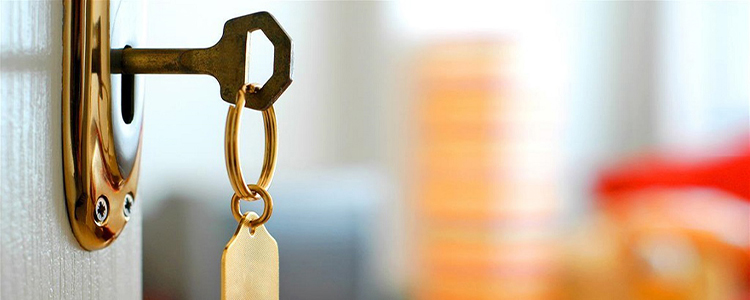
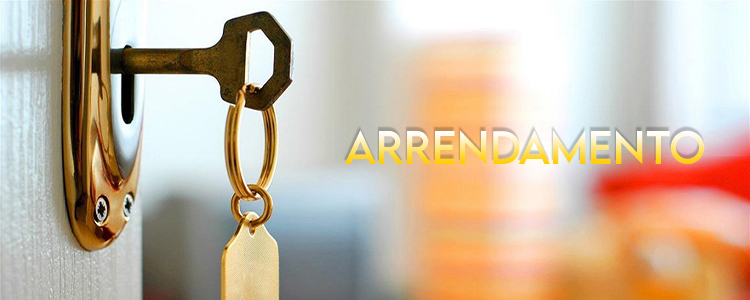
updated webswite

Changed region(s): [[0.46, 0.42, 0.9507, 0.57]]

diff --git a/Arrendamento.html b/Arrendamento.html
@@ -1,0 +1,246 @@
+<!DOCTYPE HTML>
+<html>
+	<head>
+		<title>Emprise Serviços</title>
+		<meta charset="utf-8" />
+		<meta name="viewport" content="width=device-width, initial-scale=1, user-scalable=no" />
+		<!--[if lte IE 8]><script src="assets/js/ie/html5shiv.js"></script><![endif]-->
+		<link rel="stylesheet" href="assets/css/main.css" />
+		<!--[if lte IE 9]><link rel="stylesheet" href="assets/css/ie9.css" /><![endif]-->
+		<!--[if lte IE 8]><link rel="stylesheet" href="assets/css/ie8.css" /><![endif]-->
+        <link rel="icon"  type="images/png" href="images/favicon.png" />
+        <link rel="stylesheet" href="https://cdnjs.cloudflare.com/ajax/libs/font-awesome/4.7.0/css/font-awesome.min.css">
+	</head>
+	<body>
+
+		<!-- Wrapper -->
+			<div id="wrapper">
+
+				<!-- Main -->
+					<div id="main">
+						<div class="inner">
+
+							<!-- Header -->
+								<header id="header">
+									<a href="index.html" class="logo"><strong>Emprise</strong> Serviços - <font size="1">Promotor de Serviços</font></small></a>
+									<ul class="icons">
+										<li><a href="https://www.facebook.com/EmpriseServicos/" class="icon fa-facebook"><span class="label">Facebook</span></a></li>
+									</ul>
+								</header>
+                            
+                            
+							<!-- Section -->
+								<section>
+									                           
+                               <i class="fa fa-home fa-2x" aria-hidden="true" style="color:#042c62"></i> <h1 style="color:#042c62"> Arrendamento Efectivo </h1> <h1 style="color:#424242">Properties to Rent</h1>
+                                <p>PT - Contacte-nos para saber mais informações ou para marcar uma visita a uma das propriedades apresentadas</strong><br>
+								 <strong>EN - Contact us to find out more information or to schedule a visit to one of the listed properties</strong></p>
+								</section>
+								<section>
+                                <!-- Section -->
+									<header class="major">
+									</header>
+									<div class="posts">
+									<article>
+											<a class="image" ><img src="images/t3prazeres/t3prazeres.jpg" alt="" /></a>
+											<h3>Apartamento T3, Prazeres, Calheta, Ilha da Madeira</h3>
+                                            <p>
+                                            </p>
+                                         <!--   <h4> 
+												DESC
+											</h4> -->
+											
+                                                <i class="fa fa-users" aria-hidden="true"></i> T3<br>
+												<i class="fa fa-eur" aria-hidden="true"></i> Renda: 310€/mês (mais despesas)<br>
+												<i class="fa fa-eur" aria-hidden="true"></i> Rent: 310€/mês (plus expenses)<br>
+												
+     					<br>
+											<ul class="actions">
+											
+                                                <li> <a href="http://www.cybermadeira.com/classificado-1002572467-apartamento-t3-para-arrendamento-prazeres-estacada.html">PT - MAIS FOTOS</a></li>
+												<li> <a href="http://www.cybermadeira.com/classificado-1002572467-apartamento-t3-para-arrendamento-prazeres-estacada.html">EN - MORE PHOTOS</a></li>
+											
+											</ul>
+										</article>
+										<article>
+											<a class="image"><img src="images/t2saloio/capa.jpg" alt="" /></a>
+											<h3>Apartamento T2, Prazeres, Calheta, Ilha da Madeira</h3>
+                                            <p>
+                                            </p>
+                                         <!--   <h4> 
+												DESC
+											</h4> -->
+											
+                                                <i class="fa fa-users" aria-hidden="true"></i> T2<br>
+												<i class="fa fa-eur" aria-hidden="true"></i> Renda: 400€/mês (INCLUI DESPESAS)<br>
+												<i class="fa fa-eur" aria-hidden="true"></i> Rent: 400€/mês (INCLUDES EXPENSES)<br>
+												
+     					<br>
+											<ul class="actions">
+											
+                                                <li> <a href="http://www.cybermadeira.com/classificado-1002568879-apartamento-t2-para-arrendamento-prazeres-lombo-da-rocha.html">PT - MAIS FOTOS</a></li>
+												<li> <a href="http://www.cybermadeira.com/classificado-1002568879-apartamento-t2-para-arrendamento-prazeres-lombo-da-rocha.html">EN - MORE PHOTOS</a></li>
+											
+											</ul>
+										</article>
+										<article>
+											<a class="image"><img src="images/t3saloio/capa.jpg" alt="" /></a>
+											<h3>Apartamento T3, Prazeres, Calheta, Ilha da Madeira</h3>
+                                            <p>
+                                            </p>
+                                         <!--   <h4> 
+												DESC
+											</h4> -->
+											
+                                                <i class="fa fa-users" aria-hidden="true"></i> T3<br>
+												<i class="fa fa-eur" aria-hidden="true"></i> Renda: 500€/mês (INCLUI DESPESAS)<br>
+												<i class="fa fa-eur" aria-hidden="true"></i> Rent: 500€/mês (INCLUDES EXPENSES)<br>
+												
+     					<br>
+											<ul class="actions">
+											
+                                                <li> <a href="http://www.cybermadeira.com/classificado-1002568880-apartamento-t3-para-arrendamento-prazeres-lombo-da-rocha.html">PT - MAIS FOTOS</a></li>
+												<li> <a href="http://www.cybermadeira.com/classificado-1002568880-apartamento-t3-para-arrendamento-prazeres-lombo-da-rocha.html">EN - MORE PHOTOS</a></li>
+											
+											</ul>
+										</article>
+										<article>
+											<a class="image"><img src="images/t2carreira/capa.jpg" alt="" /></a>
+											<h3>Apartamento T2, Prazeres, Calheta, Ilha da Madeira</h3>
+                                            <p>
+                                            </p>
+                                         <!--   <h4> 
+												DESC
+											</h4> -->
+											
+                                                <i class="fa fa-users" aria-hidden="true"></i> T2<br>
+												<i class="fa fa-eur" aria-hidden="true"></i> Renda: 330€/mês (mais despesas)<br>
+												<i class="fa fa-eur" aria-hidden="true"></i> Rent: 330€/mês (plus expenses)<br>
+												
+     					<br>
+											<ul class="actions">
+											
+                                                <li> <a href="http://www.cybermadeira.com/classificado-1002540080-moradia-t2-para-arrendamento-prazeres-carreira.html">PT - MAIS FOTOS</a></li>
+												<li> <a href="http://www.cybermadeira.com/classificado-1002540080-moradia-t2-para-arrendamento-prazeres-carreira.html">EN - MORE PHOTOS</a></li>
+											
+											</ul>
+										</article>
+									
+                                    </div>
+                                </section>        
+                           
+									
+								
+						</div>
+					</div>
+
+				<!-- Sidebar -->
+					<div id="sidebar">
+						<div class="inner">
+
+							<!-- Menu -->
+								<nav id="menu">
+									<header class="major">
+                                        <img src="images/logo.png" height="80" width="80"/><br>
+										<h2>Serviços</h2>
+									</header>
+								<ul>
+										<li><a href="index.html">Homepage</a></li>
+										<li>
+											<span class="opener">Seguros</span>
+											<ul>
+												<li><a href="SeguroAuto.html">Seguro Automóvel</a></li>
+												<li><a href="SeguroSaude.html">Seguros de Vida, Acidentes e Saúde</a></li>
+												<li><a href="SeguroLar.html">Seguro Habitação</a></li>
+												<li><a href="SimularSeguroAL.html">Seguro Alojamento Local</a></li>
+											</ul>
+										</li>
+										<li><a href="AlojamentoLocal.html">Alojamento Local - Vacation Homes</a></li>
+										<li><a href="AlojamentoGestao.html">Gestão de Alojamentos</a></li>
+                                        <li><a href="Taxi.html">Taxi Service</a></li>
+                                        <li><a href="RentaCar.html">Rent a Car</a></li><li><a href="OceanExperiences.html">Dolphin Watching & Ocean Experiences</a></li><!--<li><a href="Imoveis.html">Imóveis</a></li>-->
+										<li><a href="Contactos.html">Contactos</a></li>
+									</ul>
+								</nav>
+
+							<!-- Section 
+								<section>
+									<header class="major">
+										<h2>Ante interdum</h2>
+									</header>
+									<div class="mini-posts">
+										<article>
+											<a href="#" class="image"><img src="images/pic07.jpg" alt="" /></a>
+											<p>Aenean ornare velit lacus, ac varius enim lorem ullamcorper dolore aliquam.</p>
+										</article>
+										<article>
+											<a href="#" class="image"><img src="images/pic08.jpg" alt="" /></a>
+											<p>Aenean ornare velit lacus, ac varius enim lorem ullamcorper dolore aliquam.</p>
+										</article>
+										<article>
+											<a href="#" class="image"><img src="images/pic09.jpg" alt="" /></a>
+											<p>Aenean ornare velit lacus, ac varius enim lorem ullamcorper dolore aliquam.</p>
+										</article>
+									</div>
+									<ul class="actions">
+										<li><a href="#" class="button">More</a></li>
+									</ul>
+								</section>
+                            -->
+							<!-- Section -->
+								<section>
+									<header class="major">
+										<h2>Entre em contacto</h2>
+									</header>
+									<p>Estamos sempre disponíveis para receber os nossos clientes, ajudando em tudo o que precisem.</p>
+									<ul class="contact">
+										<li class="fa-envelope-o"><a href="mailto:empriseserviços@gmail.com">empriseservicos@gmail.com</a></li>
+										<li class="fa-phone">(+351) 291 606 115</li>
+										<li class="fa-home">
+                                                Rua Padre José Eduardo Faria Nº30<br />
+                                                9370-050<br />
+												Arco Da Calheta<br />		
+									</ul>
+								</section>
+
+							<!-- Footer
+								<footer id="footer">
+									<p class="copyright">&copy; Untitled. All rights reserved.
+                                        <a href="https://unsplash.com">Unsplash</a>. Design: <a href="https://html5up.net">HTML5 UP</a>.</p>
+								</footer>
+                             -->
+
+						</div>
+					</div>
+
+			</div>
+
+		<!-- Scripts -->
+			<script src="assets/js/jquery.min.js"></script>
+			<script src="assets/js/skel.min.js"></script>
+			<script src="assets/js/util.js"></script>
+			<!--[if lte IE 8]><script src="assets/js/ie/respond.min.js"></script><![endif]-->
+			<script src="assets/js/main.js"></script>
+        
+        <!--  Form -->
+            <script src="https://ajax.googleapis.com/ajax/libs/jquery/1.11.3/jquery.min.js">
+            </script>
+            <script>
+            function postContactToGoogle() {
+            var Nome=$('#Nome').val();
+            var Email=$('#Email').val();
+            var Telefone=$('#Telefone').val();
+            var Mensagem=$('#Mensagem').val();   
+
+            $.ajax({
+            url:"https://docs.google.com/forms/d/1BSwyzIa1ynRRZQIaaDKW0A_JvrQKOmFB6lvJ80rXi-s/formResponse",data:{"entry.82935241":Nome,"entry.1322850402":Email,"entry.86207474":Telefone,"entry.761940204":Mensagem},type:"POST",dataType:"xml",statusCode: {0:function() { window.location.replace("Obrigado_.html");},200:function(){window.location.replace("Obrigado_.html");}}
+            });
+            }
+            </script>
+    
+    <!--
+    
+    -->
+
+	</body>
+</html>

diff --git a/index.html b/index.html
@@ -44,9 +44,23 @@
 							<!-- Section -->
 								<section>
 									<header class="major">
-										<i class="fa fa-home fa-2x" aria-hidden="true" style="color:#042c62"></i><br><h2>Alojamento Local - Vacation Homes - House Renting</h2>
+										<i class="fa fa-home fa-2x" aria-hidden="true" style="color:#042c62"></i><br><h2>Serviços Ímoveis</h2>
 									</header>
 									<div class="posts">
+									<article>
+									
+											<a href="Arrendamento.html" class="image"><img src="images/gestao.jpg" alt="" /></a>
+											<h3>Arrendamento Habitação e/ou Comercial</h3>
+											<h3>Houses for Rent!</h3>
+											<p>Se procura de um Apartamento ou Casa de arrendamento<strong> Fale directamente connosco e tratamos o processo completo!</strong></p>
+											<p>If you are looking for a rental apartment or house <strong> Talk directly to us and we will take care of the whole process!</strong></p>
+											  <br>
+												<br><a href="Arrendamento.html" class="button">Veja as Propriedades / View our Houses</a>
+										</article>
+										</div>
+								</section>
+                                <section>
+								<div class="posts">
 										<article>
 											<a href="AlojamentoLocal.html" class="image"><img src="images/madeiraview.jpg" alt="" /></a>
 											<h3>Alojamento Local - Vacation Homes</h3>
@@ -108,14 +122,19 @@
                                                 <br>
 												<br><a href="AlojamentoLocal.html" class="button">View our Houses</a>
 										</article>
+										</div>
+								</section>
+                                <section>
+								<div class="posts">
                                         <article>
-											<a href="AlojamentoGestao.html" class="image"><img src="images/gestao.jpg" alt="" /></a>
+											<a href="AlojamentoGestao.html" class="image"><img src="images/gestaoAL.jpg" alt="" /></a>
 											<h3>Gestão do Alojamento Local</h3>
-											<p>É proprietário e quer rentabilizar a sua casa e não ter preocupações?</p>
+											<p>É proprietário de um AL e quer rentabilizar a sua casa e não ter preocupações?</p>
 											<ul class="actions">
 												<li><a href="AlojamentoGestao.html" class="button">Saiba Mais</a></li>
 											</ul>
-
+											</article>
+											<article>
 											<a id="arrendamento" class="image"><img src="images/gestao.jpg" alt="" /></a>
 											<h3>Gestão de Arredamento</h3>
 											<p>É proprietário e procura arrendar o seu espaço? Nós divulgamos e acompanhamos todo o processo do arrendamento.</p>
@@ -125,9 +144,16 @@
 												<li><a href="Contactos.html" class="button">Entre em contacto conosco</a></li>
 											</ul>
 										</article>
-                                        										<article>
+										</div>
+								</section>
+                                <section>
+										
+                                       <article>
+										<header class="major">
+										<h2>Rent a Car</h2>
+									</header>
 											<a href="RentaCar.html" class="image"><img src="images/pic11.jpg" alt="" /></a>
-											<h3>Rent a Car</h3>
+								
 											<p>Book your vehicle of choice, Car, Motorcycle or Bicycle quickly and comfortably. 
 											We carry out the promotion
 										from several Rent a Car 
@@ -139,11 +165,10 @@
 											<ul class="actions">
 												<li><a href="RentaCar.html" class="button">More</a></li>
 											</ul>
+											
 										</article>
 										
-									</div>
-								</section>
-                                <section>
+									
 									<header class="major">
 										<h2>Seguros</h2>
 									</header>
@@ -321,12 +346,12 @@
 									</ul>
 								</section>
 
-							<!-- Footer
+						
 								<footer id="footer">
-									<p class="copyright">&copy; Untitled. All rights reserved.
-                                        <a href="https://unsplash.com">Unsplash</a>. Design: <a href="https://html5up.net">HTML5 UP</a>.</p>
+									<p class="copyright">
+                                      Desenvolvimento e Manutenção do Website: Pedro Silva.</p>
 								</footer>
-                             -->
+                           
 
 						</div>
 					</div>
